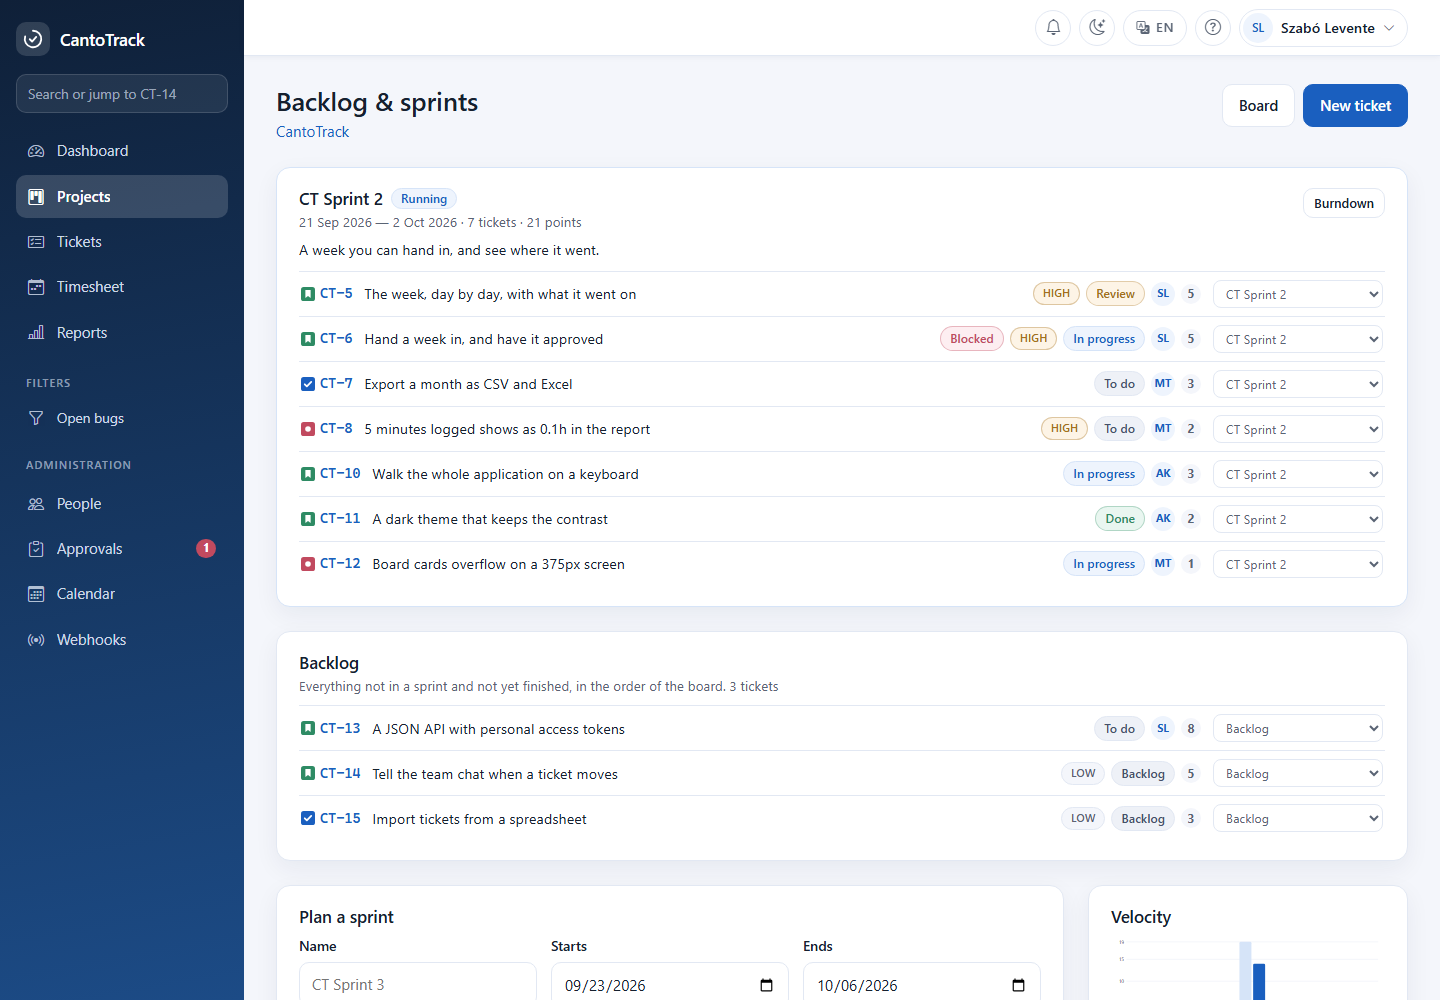
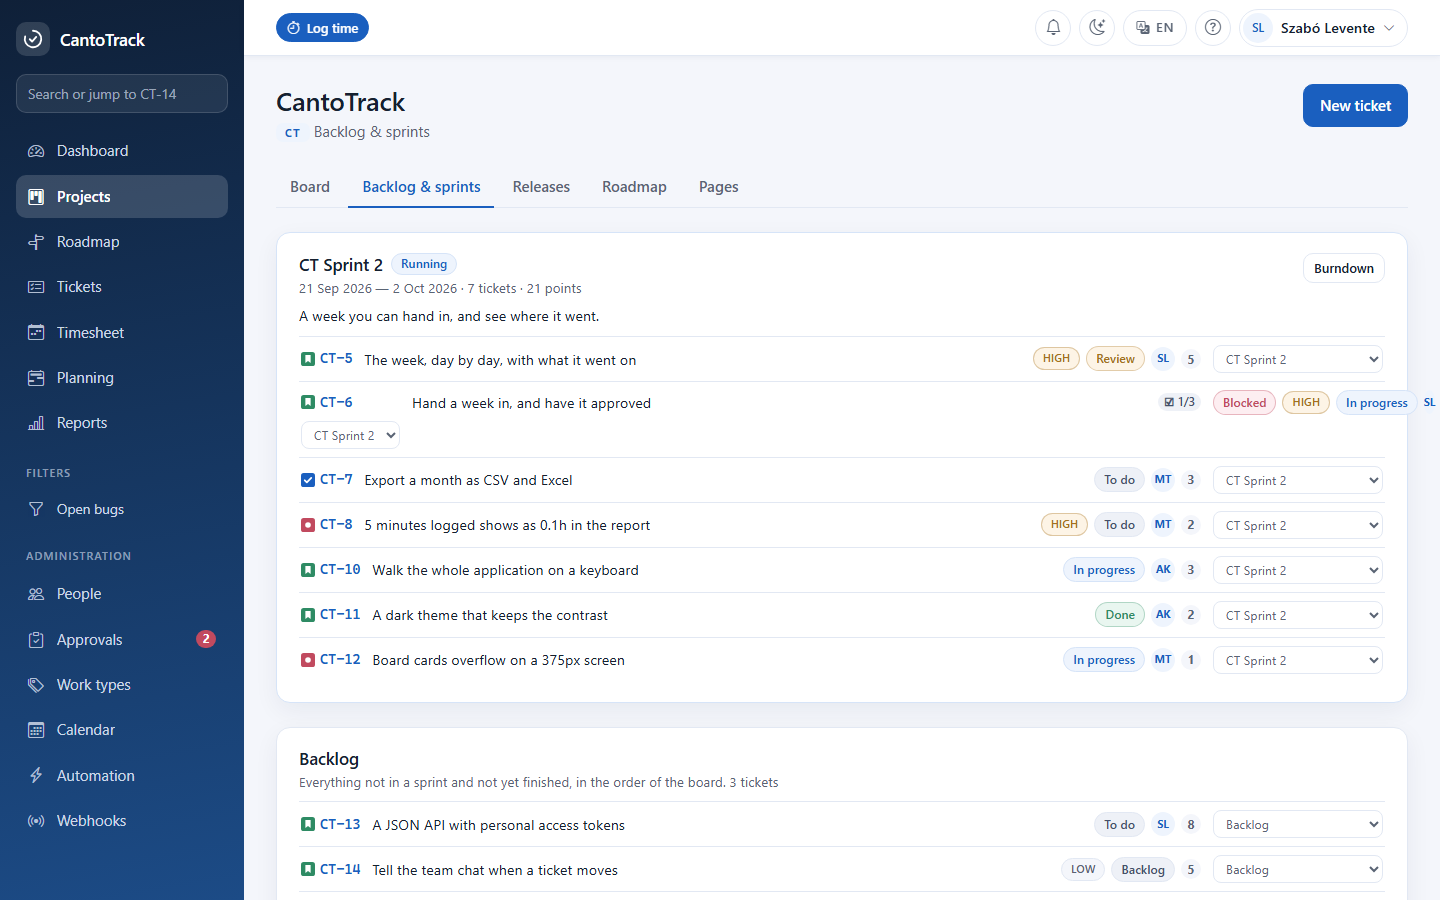
Picture the roadmap, releases, pages, queries and rules in the README
Also: shortcuts for a project's backlog, releases, pages and roadmap and for
the query, and a query box that no longer opens its suggestions over the
results when a query's page is opened.

diff --git a/web/assets/js/app.js b/web/assets/js/app.js
@@ -616,10 +616,14 @@
             waitingForG = false;
             window.clearTimeout(timer);
 
-            var jumps = {d: '/', p: '/projects', t: '/tickets', s: '/timesheet'};
-            if (key === 'b' && project) {
+            var jumps = {d: '/', p: '/projects', t: '/tickets', s: '/timesheet', r: '/roadmap', q: '/tickets?mode=query'};
+            var inProject = {b: '', k: '/backlog', v: '/releases', w: '/pages'};
+            if (inProject[key] !== undefined && project) {
                 event.preventDefault();
-                go('/projects/' + project);
+                go('/projects/' + project + inProject[key]);
+            } else if (key === 'r' && project) {
+                event.preventDefault();
+                go('/projects/' + project + '/roadmap');
             } else if (jumps[key]) {
                 event.preventDefault();
                 go(jumps[key]);
@@ -1700,9 +1704,15 @@
         draw();
     }
 
+    // Offered while typing, or on a click; focus alone opens them only in
+    // an empty box — landing on a list of results is not asking for them.
     input.addEventListener('input', suggest);
-    input.addEventListener('focus', suggest);
     input.addEventListener('click', suggest);
+    input.addEventListener('focus', function () {
+        if (input.value.trim() === '') {
+            suggest();
+        }
+    });
 
     input.addEventListener('keydown', function (event) {
         if (list.hidden || items.length === 0) {

diff --git a/src/View/Js/shortcuts.js b/src/View/Js/shortcuts.js
@@ -33,10 +33,14 @@
             waitingForG = false;
             window.clearTimeout(timer);
 
-            var jumps = {d: '/', p: '/projects', t: '/tickets', s: '/timesheet'};
-            if (key === 'b' && project) {
+            var jumps = {d: '/', p: '/projects', t: '/tickets', s: '/timesheet', r: '/roadmap', q: '/tickets?mode=query'};
+            var inProject = {b: '', k: '/backlog', v: '/releases', w: '/pages'};
+            if (inProject[key] !== undefined && project) {
                 event.preventDefault();
-                go('/projects/' + project);
+                go('/projects/' + project + inProject[key]);
+            } else if (key === 'r' && project) {
+                event.preventDefault();
+                go('/projects/' + project + '/roadmap');
             } else if (jumps[key]) {
                 event.preventDefault();
                 go(jumps[key]);

diff --git a/src/View/Js/query.js b/src/View/Js/query.js
@@ -174,9 +174,15 @@
         draw();
     }
 
+    // Offered while typing, or on a click; focus alone opens them only in
+    // an empty box — landing on a list of results is not asking for them.
     input.addEventListener('input', suggest);
-    input.addEventListener('focus', suggest);
     input.addEventListener('click', suggest);
+    input.addEventListener('focus', function () {
+        if (input.value.trim() === '') {
+            suggest();
+        }
+    });
 
     input.addEventListener('keydown', function (event) {
         if (list.hidden || items.length === 0) {

diff --git a/lang/hu.php b/lang/hu.php
@@ -1310,4 +1310,9 @@ return [
     '{count} pages' => '{count} oldal',
     '{time} behind the days so far' => '{time} lemaradás az eddigi napokhoz képest',
     '“{words}”' => '„{words}”',
+    'Go to this project’s backlog' => 'Ugrás a projekt backlogjára',
+    'Go to this project’s releases' => 'Ugrás a projekt kiadásaira',
+    'Go to this project’s pages' => 'Ugrás a projekt oldalaira',
+    'Go to the roadmap — this project’s, in a project' => 'Ugrás az ütemtervre — projekten belül a projektére',
+    'Write a query on the ticket list' => 'Lekérdezés írása a ticketlistán',
 ];

diff --git a/README.md b/README.md
@@ -59,6 +59,10 @@ deploy with `git pull`.
 
 ![A closed sprint: what it committed to, and its burndown](docs/sprint.png)
 
+![The roadmap of a project: its epics across the months, with its sprints and releases](docs/roadmap.png)
+
+![A release: what is in it, its notes, and the button that sends it out](docs/release.png)
+
 ### What the team knows
 
 - **Pages** for every project, in a tree as deep as it needs: how the project
@@ -70,6 +74,8 @@ deploy with `git pull`.
   written over somebody else's, and any version can be brought back. A ticket
   says which pages write about it, and a release's notes become a page in
   one click.
+
+![A page of a project, with a list of tickets read fresh from a query](docs/page.png)
 
 ### Talking about the work
 
@@ -94,6 +100,8 @@ deploy with `git pull`.
   lists them).
 
 ![A ticket: its history and comments, the links, and the facts beside them](docs/ticket.png)
+
+![The ticket list, found with a query](docs/query.png)
 
 ### Time
 
@@ -148,6 +156,8 @@ deploy with `git pull`.
 - A rule answers what happened, never another rule, so two rules cannot undo
   each other for ever; its lines in a ticket's history name it, and its log
   says what it did and what failed.
+
+![The automation rules, and a few to start from](docs/automation.png)
 
 ### For other programs
 
